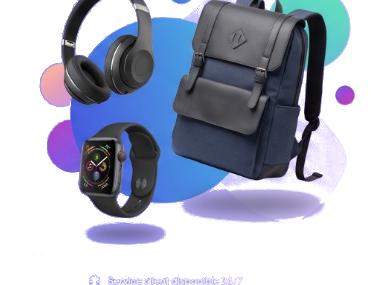
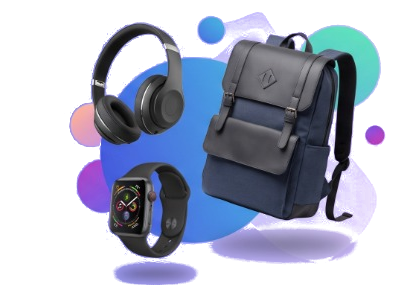
fix: reparation de l'arceau du casque, suppression du doublon de texte, retrait du badge React du header et nouveau footer personnalise au nom de Lucien HAIKOU

diff --git a/src/App.jsx b/src/App.jsx
@@ -1,10 +1,10 @@
-import { Routes, Route } from 'react-router-dom';
+import { Routes, Route, Link } from 'react-router-dom';
 import Navbar from './components/Navbar';
 import HomePage from './pages/HomePage';
 import ProductDetail from './pages/ProductDetail';
 import CartPage from './pages/CartPage';
 import NotFound from './pages/NotFound';
-import { ShoppingBag, Heart } from 'lucide-react';
+import { ShoppingBag } from 'lucide-react';
 
 export default function App() {
   return (
@@ -22,19 +22,69 @@ export default function App() {
         </Routes>
       </main>
 
-      {/* Footer */}
-      <footer className="bg-white border-t border-gray-100 py-8 text-center text-xs text-gray-500">
-        <div className="max-w-7xl mx-auto px-4 flex flex-col sm:flex-row items-center justify-between gap-4">
-          <div className="flex items-center gap-2">
-            <div className="w-6 h-6 rounded-lg bg-indigo-600 text-white flex items-center justify-center">
-              <ShoppingBag className="w-3.5 h-3.5" />
+      {/* Footer soigné et personnalisé pour Lucien HAIKOU */}
+      <footer className="bg-white border-t border-gray-200/80 mt-16 transition-colors">
+        <div className="max-w-7xl mx-auto px-4 sm:px-6 lg:px-8 py-10 sm:py-12">
+          <div className="grid grid-cols-1 md:grid-cols-4 gap-8 pb-8 border-b border-gray-100">
+            {/* Colonne Marque */}
+            <div className="md:col-span-2 space-y-3">
+              <div className="flex items-center gap-2.5">
+                <div className="w-9 h-9 rounded-xl bg-gradient-to-tr from-indigo-600 to-purple-600 text-white flex items-center justify-center shadow-md shadow-indigo-500/20">
+                  <ShoppingBag className="w-5 h-5" />
+                </div>
+                <span className="text-xl font-extrabold tracking-tight text-gray-900">
+                  Store<span className="text-indigo-600">Master</span>
+                </span>
+              </div>
+              <p className="text-sm text-gray-500 max-w-sm leading-relaxed">
+                Votre destination e-commerce pour une expérience d'achat fluide, intuitive et sécurisée.
+              </p>
             </div>
-            <span className="font-bold text-gray-800">StoreMaster</span>
-            <span>— Projet pédagogique React & Vite</span>
+
+            {/* Navigation rapide */}
+            <div>
+              <h3 className="text-xs font-bold uppercase tracking-wider text-gray-900 mb-3">
+                Navigation
+              </h3>
+              <ul className="space-y-2 text-sm text-gray-600">
+                <li>
+                  <Link to="/" className="hover:text-indigo-600 transition-colors">
+                    Catalogue produits
+                  </Link>
+                </li>
+                <li>
+                  <Link to="/cart" className="hover:text-indigo-600 transition-colors">
+                    Mon Panier
+                  </Link>
+                </li>
+              </ul>
+            </div>
+
+            {/* Engagements client */}
+            <div>
+              <h3 className="text-xs font-bold uppercase tracking-wider text-gray-900 mb-3">
+                Engagements
+              </h3>
+              <ul className="space-y-2 text-sm text-gray-600">
+                <li>Livraison rapide 48h</li>
+                <li>Paiement 100% sécurisé</li>
+                <li>Support client 24/7</li>
+              </ul>
+            </div>
           </div>
-          <p className="flex items-center justify-center gap-1">
-            Conçu avec React 18, React Router & Tailwind CSS
-          </p>
+
+          {/* Barre inférieure avec signature */}
+          <div className="pt-6 flex flex-col sm:flex-row items-center justify-between gap-4 text-xs text-gray-500">
+            <p>
+              © {new Date().getFullYear()} <span className="font-semibold text-gray-800">StoreMaster</span>. Tous droits réservés.
+            </p>
+            <div className="flex items-center gap-1.5 font-medium">
+              <span>Créé et développé par</span>
+              <span className="font-bold text-indigo-600 hover:text-indigo-800 transition-colors text-sm">
+                Lucien HAIKOU
+              </span>
+            </div>
+          </div>
         </div>
       </footer>
     </div>

diff --git a/src/components/Navbar.jsx b/src/components/Navbar.jsx
@@ -22,9 +22,6 @@ export default function Navbar() {
                 <span className="text-xl font-bold tracking-tight bg-gradient-to-r from-gray-900 via-indigo-950 to-gray-800 bg-clip-text text-transparent">
                   Store<span className="text-indigo-600">Master</span>
                 </span>
-                <span className="inline-flex items-center px-1.5 py-0.5 rounded text-[10px] font-semibold bg-indigo-50 text-indigo-700 border border-indigo-100">
-                  React
-                </span>
               </div>
               <p className="text-[11px] text-gray-500 font-medium hidden sm:block -mt-0.5">
                 Catalogue E-Commerce
